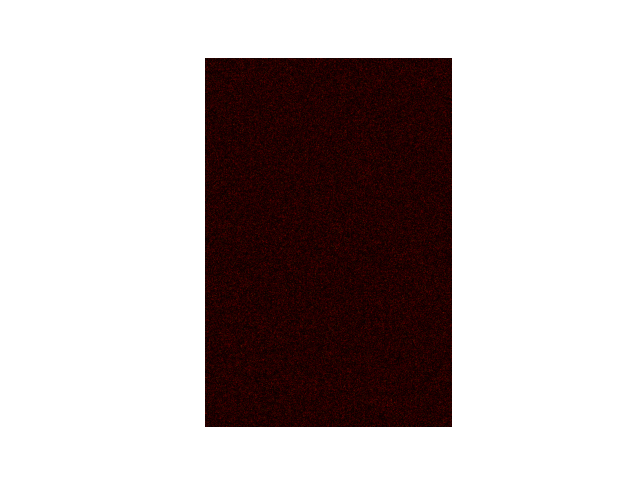
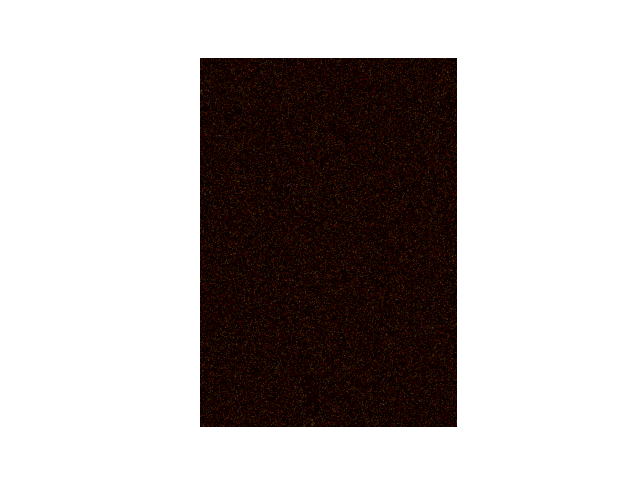
Updated stegovault - added new changes

Changed region(s): [[0.3125, 0.125, 0.7188, 0.9062]]

diff --git a/core/stego_engine.py b/core/stego_engine.py
@@ -1,68 +1,127 @@
 import random
 from PIL import Image
-from core.crypto import encrypt, decrypt
+
+from core.crypto import encrypt_data, decrypt_data, get_seed
 from core.container import pack_files, unpack_files
-from Utils.capacity import check_capacity
-
-EOF = "1111111111111110"
 
 
-def to_bin(data):
+# =========================
+# BIT HELPERS
+# =========================
+
+def bytes_to_bits(data):
     return ''.join(format(b, '08b') for b in data)
 
 
-def from_bin(binary):
-    return bytes(int(binary[i:i+8], 2) for i in range(0, len(binary), 8))
+def bits_to_bytes(bits):
+    return bytes(int(bits[i:i+8], 2) for i in range(0, len(bits), 8))
 
 
-def generate_positions(width, height, seed):
-    random.seed(seed)
-    positions = [(x, y, c) for y in range(height) for x in range(width) for c in range(3)]
-    random.shuffle(positions)
-    return positions
+def set_2_lsb(value, bits):
+    return (value & 0b11111100) | int(bits, 2)
 
+
+def get_2_lsb(value):
+    return format(value & 0b11, '02b')
+
+
+# =========================
+# HIDE DATA (STABLE)
+# =========================
 
 def hide_data(image_path, files, password, output_path):
-    img = Image.open(image_path).convert("RGB")
-    pixels = img.load()
 
-    container = pack_files(files)
-    encrypted = encrypt(container, password)
+    packed = pack_files(files)
+    encrypted = encrypt_data(packed, password)
 
-    binary = to_bin(encrypted) + EOF
+    header = len(encrypted).to_bytes(4, 'big')
+    final = header + encrypted
 
-    positions = generate_positions(img.width, img.height, password)
+    bits = bytes_to_bits(final)
 
-    if not check_capacity(img, len(binary)):
-        raise ValueError("Data too large for image")
+    image = Image.open(image_path).convert("RGB")
+    pixels = list(image.getdata())
 
-    for i, bit in enumerate(binary):
-        x, y, c = positions[i]
-        pixel = list(pixels[x, y])
-        pixel[c] = pixel[c] & ~1 | int(bit)
-        pixels[x, y] = tuple(pixel)
+    # 🔑 Stable random seed
+    seed = get_seed(password)
+    random.seed(seed)
 
-    img.save(output_path)
+    indices = list(range(len(pixels)))
+    random.shuffle(indices)
 
+    capacity = len(pixels) * 3 * 2
 
-def extract_data(image_path, password):
-    img = Image.open(image_path).convert("RGB")
-    pixels = img.load()
+    if len(bits) > capacity:
+        raise ValueError("❌ Data too large for this image")
 
-    positions = generate_positions(img.width, img.height, password)
+    new_pixels = pixels.copy()
+    bit_index = 0
 
-    binary = ""
-
-    for x, y, c in positions:
-        binary += str(pixels[x, y][c] & 1)
-        if binary.endswith(EOF):
+    for idx in indices:
+        if bit_index >= len(bits):
             break
 
-    binary = binary[:-len(EOF)]
-    data = from_bin(binary)
+        r, g, b = new_pixels[idx]
 
-    decrypted = decrypt(data, password)
-    if decrypted is None:
+        for channel in range(3):
+            if bit_index >= len(bits):
+                break
+
+            bit_pair = bits[bit_index:bit_index+2].ljust(2, '0')
+            bit_index += 2
+
+            if channel == 0:
+                r = set_2_lsb(r, bit_pair)
+            elif channel == 1:
+                g = set_2_lsb(g, bit_pair)
+            else:
+                b = set_2_lsb(b, bit_pair)
+
+        new_pixels[idx] = (r, g, b)
+
+    out = Image.new("RGB", image.size)
+    out.putdata(new_pixels)
+    out.save(output_path)
+
+
+# =========================
+# EXTRACT DATA (STABLE)
+# =========================
+
+def extract_data(image_path, password):
+
+    image = Image.open(image_path).convert("RGB")
+    pixels = list(image.getdata())
+
+    seed = get_seed(password)
+    random.seed(seed)
+
+    indices = list(range(len(pixels)))
+    random.shuffle(indices)
+
+    bits = ""
+
+    for idx in indices:
+        r, g, b = pixels[idx]
+        bits += get_2_lsb(r)
+        bits += get_2_lsb(g)
+        bits += get_2_lsb(b)
+
+    # 🔹 Read header
+    header_bits = bits[:32]
+    length = int(header_bits, 2)
+
+    total_bits = 32 + (length * 8)
+
+    if total_bits > len(bits):
+        return None  # corrupted
+
+    data_bits = bits[32:total_bits]
+    encrypted = bits_to_bytes(data_bits)
+
+    try:
+        decrypted = decrypt_data(encrypted, password)
+    except:
         return None
 
     return unpack_files(decrypted)

diff --git a/core/crypto.py b/core/crypto.py
@@ -1,39 +1,53 @@
 import os
+import zlib
+import hashlib
+from cryptography.hazmat.primitives.ciphers.aead import AESGCM
 from cryptography.hazmat.primitives.kdf.pbkdf2 import PBKDF2HMAC
 from cryptography.hazmat.primitives import hashes
-from cryptography.hazmat.primitives.ciphers.aead import AESGCM
 
 
-def derive_key(password: str, salt: bytes):
+def derive_key(password: str, salt: bytes) -> bytes:
     kdf = PBKDF2HMAC(
         algorithm=hashes.SHA256(),
         length=32,
         salt=salt,
-        iterations=100000,
+        iterations=150000,
     )
     return kdf.derive(password.encode())
 
 
-def encrypt(data: bytes, password: str):
+def encrypt_data(data: bytes, password: str) -> bytes:
+    # 📦 Compress
+    compressed = zlib.compress(data)
+
     salt = os.urandom(16)
     key = derive_key(password, salt)
 
-    aes = AESGCM(key)
+    aesgcm = AESGCM(key)
     nonce = os.urandom(12)
 
-    encrypted = aes.encrypt(nonce, data, None)
+    encrypted = aesgcm.encrypt(nonce, compressed, None)
+
     return salt + nonce + encrypted
 
 
-def decrypt(data: bytes, password: str):
+def decrypt_data(data: bytes, password: str) -> bytes:
     try:
         salt = data[:16]
         nonce = data[16:28]
         ciphertext = data[28:]
 
         key = derive_key(password, salt)
-        aes = AESGCM(key)
+        aesgcm = AESGCM(key)
 
-        return aes.decrypt(nonce, ciphertext, None)
+        decrypted = aesgcm.decrypt(nonce, ciphertext, None)
+
+        # 📦 Decompress
+        return zlib.decompress(decrypted)
+
     except Exception:
-        return None  # Safe failure
+        raise ValueError("Wrong password or corrupted data")
+
+
+def get_seed(password: str) -> int:
+    return int(hashlib.sha256(password.encode()).hexdigest(), 16)

diff --git a/core/container.py b/core/container.py
@@ -1,36 +1,33 @@
-import struct
+def pack_files(files):
+    data = b''
+
+    for name, content in files:
+        name_bytes = name.encode()
+        data += len(name_bytes).to_bytes(2, 'big')
+        data += name_bytes
+        data += len(content).to_bytes(4, 'big')
+        data += content
+
+    return data
 
 
-def pack_files(files: list):
-    container = b""
-
-    for filename, data in files:
-        name_bytes = filename.encode()
-        container += struct.pack("I", len(name_bytes))
-        container += name_bytes
-        container += struct.pack("I", len(data))
-        container += data
-
-    return container
-
-
-def unpack_files(data: bytes):
+def unpack_files(data):
     files = []
     i = 0
 
     while i < len(data):
-        name_len = struct.unpack("I", data[i:i+4])[0]
-        i += 4
+        name_len = int.from_bytes(data[i:i+2], 'big')
+        i += 2
 
         name = data[i:i+name_len].decode()
         i += name_len
 
-        size = struct.unpack("I", data[i:i+4])[0]
+        size = int.from_bytes(data[i:i+4], 'big')
         i += 4
 
-        file_data = data[i:i+size]
+        content = data[i:i+size]
         i += size
 
-        files.append((name, file_data))
+        files.append((name, content))
 
     return files
